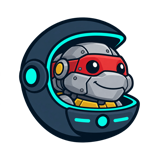
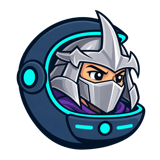
fix(assets): depict Shredder for Metalhead

diff --git a/tests/Installer/SocialPreviewAssetTest.php b/tests/Installer/SocialPreviewAssetTest.php
@@ -54,7 +54,7 @@ test('the rendered PNG is bound to the SVG it was rendered from (issue #193)', f
[1 lines of base64/hex data omitted]
 
     expect(hash_file('sha256', $packageDir . '/assets/social-preview.png'))
[2 lines of base64/hex data omitted]
 
     // The dimensions GitHub renders a social preview at; a re-render at the wrong size would
     // otherwise pass the digest check the moment someone updated it without looking.

diff --git a/assets/ATTRIBUTION.md b/assets/ATTRIBUTION.md
@@ -22,6 +22,6 @@ The README loads the 960 × 480 lossless WebP. The 1280 × 640 PNG is the GitHub
 
 Upload `social-preview.png` in GitHub **Settings → General → Social preview**; committing the file does not configure GitHub's repository setting.
 
-The 1254 × 1254 transparent agent portraits in `agents/*.png` were generated from the Cockpit Krang style reference. The matching 160 × 160 transparent PNGs in `agents/thumbnails/` are used in the README and role documentation. Generation prompts and the reference source are recorded in `agents/prompts.json`. The English character identities are Splinter, Donatello, Leonardo, Raphael, Michelangelo, April O’Neil, Casey Jones, and Metalhead.
+The 1254 × 1254 transparent agent portraits in `agents/*.png` were generated from the Cockpit Krang style reference. The matching 160 × 160 transparent PNGs in `agents/thumbnails/` are used in the README and role documentation. Generation prompts and the reference source are recorded in `agents/prompts.json`. The English character identities are Splinter, Donatello, Leonardo, Raphael, Michelangelo, April O’Neil, Casey Jones, and Shredder artwork for `metalhead`.
 
 Teenage Mutant Ninja Turtles character names and likenesses belong to their respective rights holders. These themed agent portraits do not imply affiliation or endorsement. This character artwork is separate from the PHP and Laravel logo licences above.

diff --git a/README.md b/README.md
@@ -230,7 +230,7 @@ Runs only when the relevance gate decides that a task needs project knowledge. I
 
 ### Avatars and activity animations
 
-All eight agents have transparent PNG portraits (1254 × 1254) and thumbnails (160 × 160) in [`assets/agents/`](assets/agents). They share Cockpit’s Krang mascot style; `metalhead` is a robot-turtle portrait in the same series. The shared [activity stylesheet](assets/agents/activity.css) uses the same portrait sway and three animated thought dots.
+All eight agents have transparent PNG portraits (1254 × 1254) and thumbnails (160 × 160) in [`assets/agents/`](assets/agents). They share Cockpit’s Krang mascot style; `metalhead` depicts Shredder in the same series. The shared [activity stylesheet](assets/agents/activity.css) uses the same portrait sway and three animated thought dots.
 
 Download or clone the repository, then open [`assets/agents/preview.html`](assets/agents/preview.html) locally to try each agent, state, and theme. Keep the accompanying files together; GitHub displays the HTML source instead of running this preview.
 
